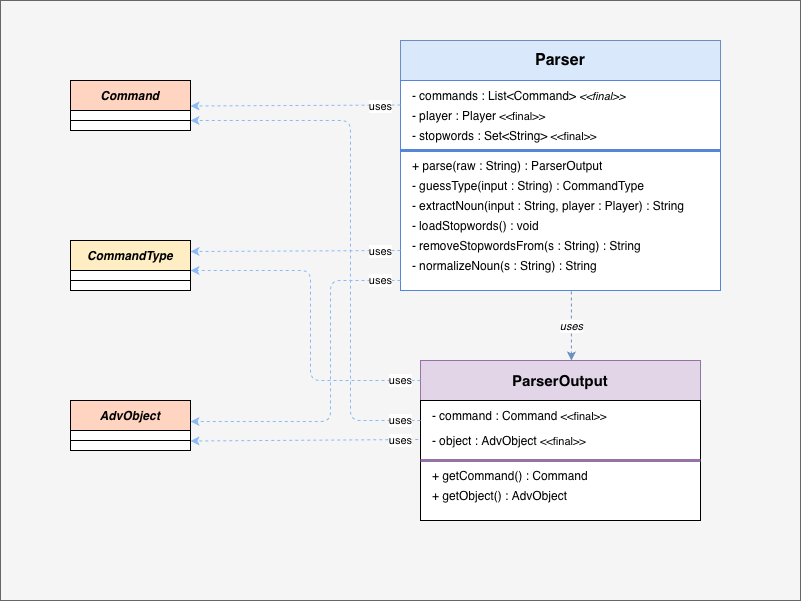
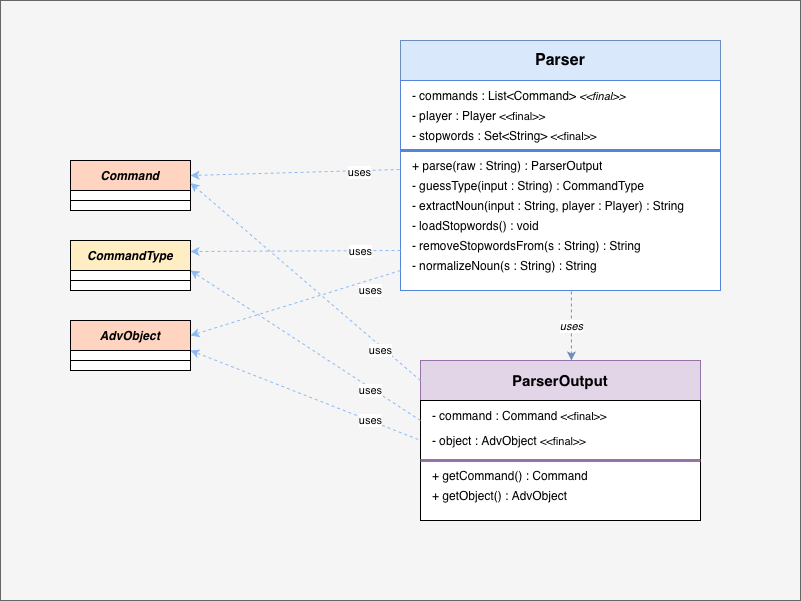
rimozione classe + documentazione
Aggiunto il file .md della documentazione e rimossa la classe inutile del package "ui" SimpleGameFrame.java

diff --git a/Documentazione.md b/Documentazione.md
@@ -1,0 +1,177 @@
+# Documentazione delle classi — Yankton Bank
+
+Yankton Bank è un'avventura testuale sviluppata in Java con interfaccia grafica Swing. Il giocatore assume il ruolo di un ladro che deve infiltrarsi in una banca abbandonata, disattivare i sistemi di sicurezza e recuperare una riserva d'oro nascosta. L'architettura del progetto è suddivisa in cinque package principali, ciascuno con responsabilità ben definite.
+
+---
+
+## Package `code.yankton_bank.database`
+
+Il package gestisce tutta la persistenza dei dati su file system: salvataggi di gioco e classifica dei punteggi.
+
+### `DatabaseManager`
+
+Classe di utilità statica (`final`) che centralizza la gestione dei percorsi dei file usati dal gioco. Fornisce tre metodi statici per ottenere la cartella dati dell'applicazione (`~/.yanktonbank`), il file della classifica e il file di salvataggio per uno specifico slot. Il suo scopo è evitare path hard-coded sparsi nel codice, garantendo un unico punto di configurazione.
+
+### `GameSaveDAO`
+
+Data Access Object responsabile del salvataggio e caricamento dello stato di una partita. Il metodo `save` serializza in un file `.properties` le informazioni essenziali: nome del giocatore, punteggio, stanza corrente e contenuto dell'inventario. Il metodo `loadInto` ricostruisce lo stato nel `GameDesc` attivo, inclusa la ricerca della stanza tramite visita BFS del grafo delle stanze. È presente anche la gestione di versioni del file di salvataggio, per garantire compatibilità futura.
+
+### `ScoreboardDAO`
+
+Data Access Object per la classifica dei punteggi. Permette di aggiungere una nuova voce (`append`) con nome del giocatore e punteggio, e di caricare l'elenco completo delle voci già registrate (`loadAll`). I dati sono memorizzati in un file di testo semplice con formato `nome;punteggio`.
+
+---
+
+## Package `code.yankton_bank.impl`
+
+Il package contiene la descrizione del gioco e tutti gli observer che implementano la logica dei comandi del giocatore. Applica il **pattern Observer**: ogni comando è gestito da un observer dedicato, disaccoppiando la logica dal controller.
+
+### `GameDesc`
+
+Classe principale dello stato di gioco, implementa l'interfaccia `GameDescription`. Inizializza e mantiene l'intera struttura della mappa (sette stanze collegate), gli oggetti di scena, i comandi disponibili e il giocatore. Espone metodi per modificare lo stato del gioco — livello di pericolo, punteggio, stato delle telecamere, della sicurezza e dell'armadietto — e getter per accedere a ogni singola stanza. È il modello centrale a cui tutti gli observer si riferiscono.
+
+### `EndObserver`
+
+Gestisce la conclusione della partita, sia per comando esplicito del giocatore (`fine`) sia in modo automatico (chiamato da `MoveObserver` alla vittoria). Il metodo statico `finish` mostra il riepilogo del punteggio, chiede il nome del giocatore tramite una finestra di dialogo Swing e salva il risultato nella classifica tramite `ScoreboardDAO`. Infine riporta il gioco al menu principale.
+
+### `HelpObserver`
+
+Observer semplice che risponde al comando `aiuto` stampando l'elenco di tutti i comandi disponibili nel gioco.
+
+### `InventoryObserver`
+
+Risponde al comando `inventario` e mostra a schermo il contenuto dell'inventario del giocatore, formattato tramite `PrettyPrint`.
+
+### `LookObserver`
+
+Gestisce il comando `guarda`. Descrive la stanza corrente — nome, descrizione e oggetti visibili — costruendo dinamicamente il testo da mostrare al giocatore.
+
+### `MoveObserver`
+
+Gestisce i comandi di movimento direzionale (nord, sud, est, ovest). Verifica la disponibilità dell'uscita richiesta e lo stato di blocco della stanza di destinazione. Aggiorna la posizione del giocatore e, se il giocatore raggiunge l'ingresso con l'oro nell'inventario, attiva automaticamente la sequenza di vittoria tramite `EndObserver.finish`.
+
+### `OpenObserver`
+
+Gestisce il comando `apri` applicato a oggetti specifici della scena: la porta d'ingresso, la porta dello stanzino, l'armadietto e la cassetta di sicurezza nel caveau. Ogni caso produce effetti diversi sullo stato del gioco — come rendere visibili le chiavi o l'oro — a seconda del contesto in cui viene eseguito.
+
+### `PickUpObserver`
+
+Gestisce il comando `prendi`. Cerca l'oggetto nella stanza corrente, verifica che sia visibile e raccoglibile, lo rimuove dalla stanza e lo aggiunge all'inventario del giocatore. Gestisce anche effetti collaterali specifici, come l'incremento del punteggio al momento della raccolta delle chiavi o il messaggio aggiuntivo quando si raccoglie l'oro.
+
+### `SaveObserver`
+
+Gestisce i comandi `salva` e `carica`. Delega le operazioni rispettivamente a `GameSaveDAO.save` e `GameSaveDAO.loadInto`, usando il primo slot disponibile, e mostra conferma o errore tramite finestra di dialogo Swing.
+
+### `UseObserver`
+
+Gestisce il comando `usa` applicato agli oggetti dell'inventario o presenti nella scena. Copre tutti gli oggetti interattivi del gioco: le pinze per tagliare il cavo della telecamera, il grimaldello per forzare porte, le chiavi per sbloccare passaggi, i tre terminali della sala sorveglianza (dove la scelta sbagliata attiva l'allarme e termina la partita), il tastierino del caveau e l'oro. Ogni azione modifica lo stato del gioco in modo coerente con la narrativa.
+
+---
+
+## Package `code.yankton_bank.type`
+
+Il package contiene i modelli di dominio del gioco: le entità fondamentali che rappresentano stanze, oggetti, giocatore, comandi e inventario.
+
+### `AdvObject`
+
+Rappresenta un oggetto interattivo dell'avventura. Ogni oggetto ha un identificatore numerico, nome, descrizione e due flag booleani: `visible` (se il giocatore può vederlo nella stanza) e `pickupable` (se può essere raccolto). Include un metodo statico di utilità `findInRoom` per cercare un oggetto per nome all'interno di una stanza.
+
+### `AdvObjectContainer`
+
+Estende `AdvObject` e aggiunge la capacità di contenere altri oggetti tramite una lista interna. Implementa `Serializable`. Rappresenta contenitori fisici nella scena che possono ospitare oggetti annidati.
+
+### `Command`
+
+Modello di un comando riconoscibile dal parser. Associa una parola chiave testuale (es. `"nord"`) a un valore dell'enumerazione `CommandType`, che identifica l'azione da eseguire.
+
+### `CommandType`
+
+Enumerazione di tutti i tipi di comando supportati dal gioco: movimenti (NORTH, SOUTH, EAST, WEST), azioni (LOOK, PICK_UP, USE, OPEN), comandi di sistema (INVENTORY, HELP, END, SAVE, LOAD) e il valore speciale UNKNOWN per input non riconosciuti.
+
+### `GameObserver`
+
+Interfaccia del pattern Observer. Dichiara il solo metodo `update(ParserOutput, Object)`, che ogni observer concreto implementa per reagire all'input del giocatore. Disaccoppia la logica dei comandi dalla gestione centrale in `GameController`.
+
+### `Inventory`
+
+Contenitore degli oggetti raccolti dal giocatore. Gestisce una lista interna di `AdvObject` e offre metodi per aggiungere, rimuovere, cercare e verificare la presenza di oggetti per nome. Fornisce anche metodi di utilità come `size`, `isEmpty` e una rappresentazione testuale formattata dell'inventario.
+
+### `Player`
+
+Modello del giocatore. Mantiene il nome, la stanza corrente e un riferimento all'inventario (istanziato alla creazione e non sostituibile). È la classe centrale dello stato del giocatore acceduta da quasi tutti gli observer.
+
+### `Room`
+
+Modello di una stanza del gioco. Ogni stanza ha un identificatore numerico, un flag di blocco (`locked`), nome, descrizione e un percorso opzionale per un'immagine associata. Gestisce internamente una mappa delle uscite verso altre stanze (indicizzata per direzione) e una lista degli oggetti presenti. Espone metodi di convenienza per impostare le uscite nelle quattro direzioni cardinali.
+
+---
+
+## Package `code.yankton_bank.ui`
+
+Il package gestisce l'intera interfaccia grafica del gioco, costruita con Java Swing. Comprende il controller principale, le finestre e i componenti visivi.
+
+### `GameController`
+
+Controller principale del ciclo di gioco. Alla creazione inizializza `GameDesc`, il parser e registra tutti gli observer. Gestisce il redirect di `System.out` verso la console grafica tramite la inner class `SwingConsoleOutputStream`. Il metodo `submit` riceve ogni comando dell'utente, lo fa elaborare dal parser e lo distribuisce agli observer registrati. Gestisce anche il salvataggio automatico dopo ogni comando e l'aggiornamento della vista (immagine della stanza, titolo della finestra). Il metodo statico `returnToMenu` chiude la finestra di gioco e riapre il menu principale.
+
+### `GameFrame`
+
+Finestra principale del gioco. Divide lo spazio verticalmente tra un pannello immagine (che mostra la stanza corrente a schermo intero con ritaglio centrato) e una console testuale con campo input. Contiene pulsanti per salvare la partita e tornare al menu. Ogni volta che la finestra viene ridimensionata, l'immagine viene ridisegnata in modo adattivo.
+
+### `MainMenuFrame`
+
+Finestra del menu principale, visualizzata all'avvio e al ritorno dal gioco. Presenta cinque pulsanti: avvia una nuova partita, carica l'ultimo salvataggio, mostra i comandi disponibili, apre la classifica ed esce dall'applicazione. Avvia anche il loop musicale di sottofondo tramite `MusicHandler`.
+
+### `ScoreboardFrame`
+
+Finestra che mostra la classifica dei punteggi in una tabella Swing. Legge i dati tramite `ScoreboardDAO` e li presenta con colonne Giocatore e Punteggio.
+
+### `SimpleGameFrame`
+
+Versione semplificata di `GameFrame`, senza immagini o controlli aggiuntivi. Espone le stesse API essenziali (`println`, `setOnSubmit`) ed è pensata per test o varianti leggere del gioco.
+
+### `ConsolePanel`
+
+Pannello Swing autonomo che combina un'area di testo non modificabile (output) e un campo di input con pulsante di invio. Permette di registrare una callback `onSubmit` che viene invocata a ogni pressione del tasto Invio o del pulsante. Componente riutilizzabile indipendente dal controller.
+
+### `ImagePanel`
+
+Pannello Swing che mostra un'immagine con un overlay semi-trasparente scuro sovrapposto. L'overlay è attivabile/disattivabile tramite il metodo `setDark`, utile per simulare stanze buie o non ancora esplorate.
+
+### `LoadingScreen`
+
+Finestra di dialogo modale che mostra una barra di avanzamento indeterminata durante il caricamento delle risorse. Il metodo `showAndRun` esegue un `Runnable` in background tramite `SwingWorker` e garantisce una durata minima visualizzata prima di chiudersi.
+
+---
+
+## Package `code.yankton_bank.util`
+
+Il package raccoglie classi di utilità trasversali al progetto, tutte stateless e con costruttore privato (pattern utility class).
+
+### `Concurrent`
+
+Gestisce l'esecuzione di task in background tramite un `ExecutorService` con thread daemon. Il metodo statico `runAsync` sottomette un `Runnable` al pool, mentre `shutdown` garantisce una terminazione ordinata. È usato da `UseObserver` per ritardare la chiamata a `EndObserver.finish` dopo il messaggio di allarme.
+
+### `HttpRest`
+
+Client HTTP minimale per richieste GET. Accetta un URL e un timeout in millisecondi, e restituisce il corpo della risposta come stringa, oppure `null` in caso di errore o codice HTTP diverso da 200. È il livello di trasporto usato da `RestHintService`.
+
+### `ImageLoader`
+
+Carica immagini dal classpath (cartella `/images`) e le scala alla dimensione richiesta. Implementa una cache interna tramite `ConcurrentHashMap` per evitare letture ripetute dello stesso file. Se l'immagine non viene trovata, genera un'immagine segnaposto grigia con testo descrittivo.
+
+### `MusicHandler`
+
+Gestisce la riproduzione audio tramite le Java Sound API. Permette di avviare un loop musicale da una risorsa del classpath (`playLoop`) e di interromperlo (`stopLoop`). Mantiene un riferimento statico all'unico `Clip` attivo, garantendo che non si sovrappongano più tracce in loop.
+
+### `PrettyPrint`
+
+Classe di formattazione testuale con un unico metodo statico `print`, che aggiunge una riga di separatori prima e dopo il testo passato. Usata da tutti gli observer per uniformare la presentazione dell'output nella console di gioco.
+
+### `RestHintService`
+
+Servizio che recupera un suggerimento testuale da un endpoint JSON pubblico (jsonplaceholder). Usa `HttpRest` per la chiamata HTTP e analizza manualmente la risposta per estrarre il campo `title`. In caso di errore di rete o risposta non valida, restituisce `null` senza interrompere il gioco.
+
+### `ScoreboardService`
+
+Servizio alternativo per la gestione della classifica, indipendente da `ScoreboardDAO`. Scrive i punteggi in append su un file `scores.txt` nella directory di lavoro e offre il metodo `loadTopScores` che carica, ordina per punteggio decrescente e restituisce i migliori N risultati come lista di stringhe formattate.